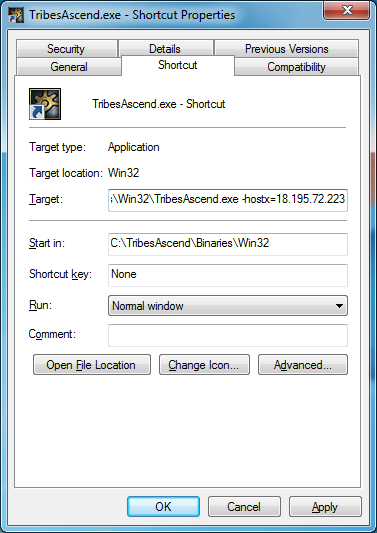
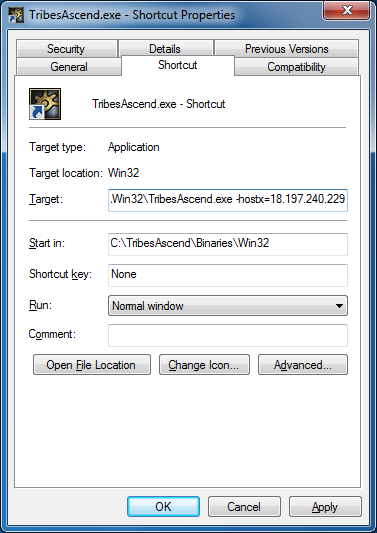
Update IP of default login server

Changed region(s): [[0.0, 0.0, 1.0, 1.0], [0.2918, 0.3602, 0.8753, 0.3902], [0.9045, 0.3602, 0.9337, 0.3902]]

diff --git a/README.md b/README.md
@@ -8,7 +8,7 @@ multiplayer games.
 
 If you just want to join games on the login server hosted by me (Griffon26), then
 you don't need to download anything. All you need to do is create a Windows shortcut to
-`TribesAscend.exe` and add `-hostx=18.195.72.223` to the end of the target field, like this:
+`TribesAscend.exe` and add `-hostx=18.197.240.229` to the end of the target field, like this:
 
 ![Shortcut dialog](/docs/images/tashortcut.png?raw=true)
 
@@ -64,7 +64,7 @@ Try it out by following the instructions under [Joining games](#joining-games)
 
 Running your own login server is usually not needed. When you start a game server using
 [the instructions above](#hosting-a-dedicated-server) it will connect to the default login 
-server running on `ta.kfk4ever.com` (`18.195.72.223`). Your server will show up in the list 
+server running on `ta.kfk4ever.com` (`18.197.240.229`). Your server will show up in the list 
 for anyone else connecting to this login server.
 
 One scenario where you would want to run your own login server is when you want to play
